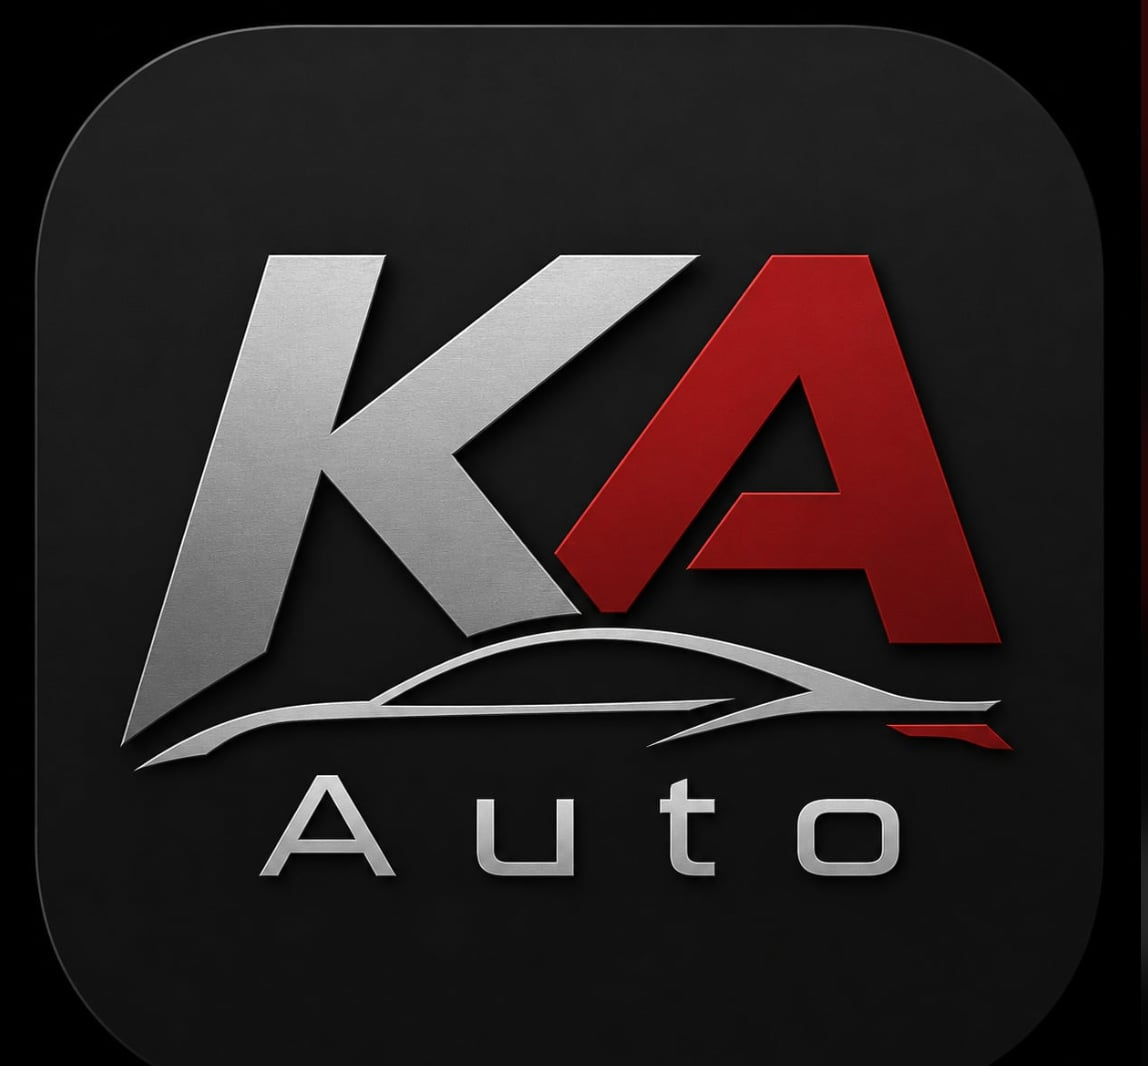
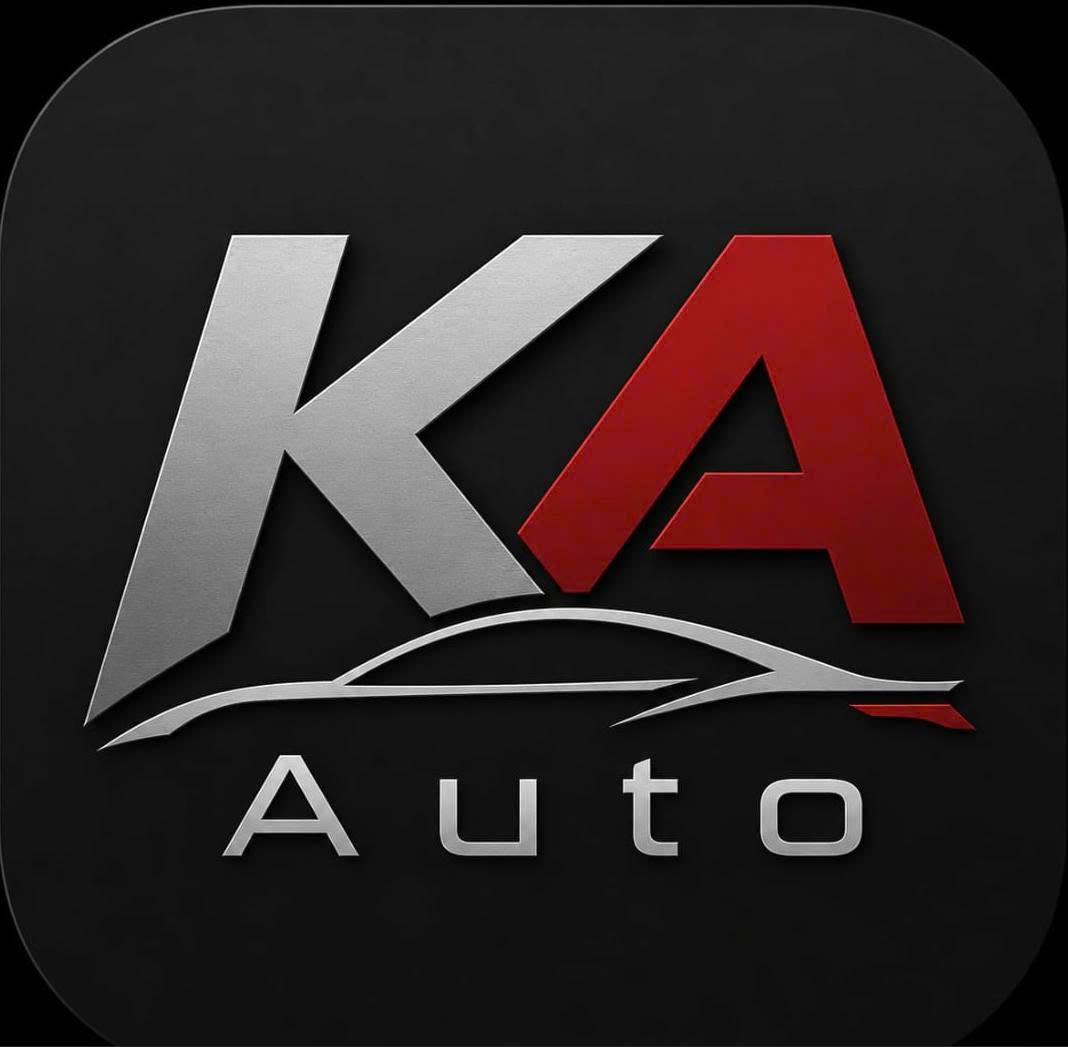
ok

diff --git a/public/index.html b/public/index.html
@@ -14,7 +14,7 @@
 
     <meta
         name="description"
-        content="KA AUTO - Giải pháp xem YouTube trên màn hình ô tô nhanh chóng, ổn định, hỗ trợ nhiều dòng xe chỉ với 500.000đ."
+        content="KA AUTO - Giải pháp xem YouTube trên màn hình ô tô chỉ với 500.000đ."
     />
 
     <meta